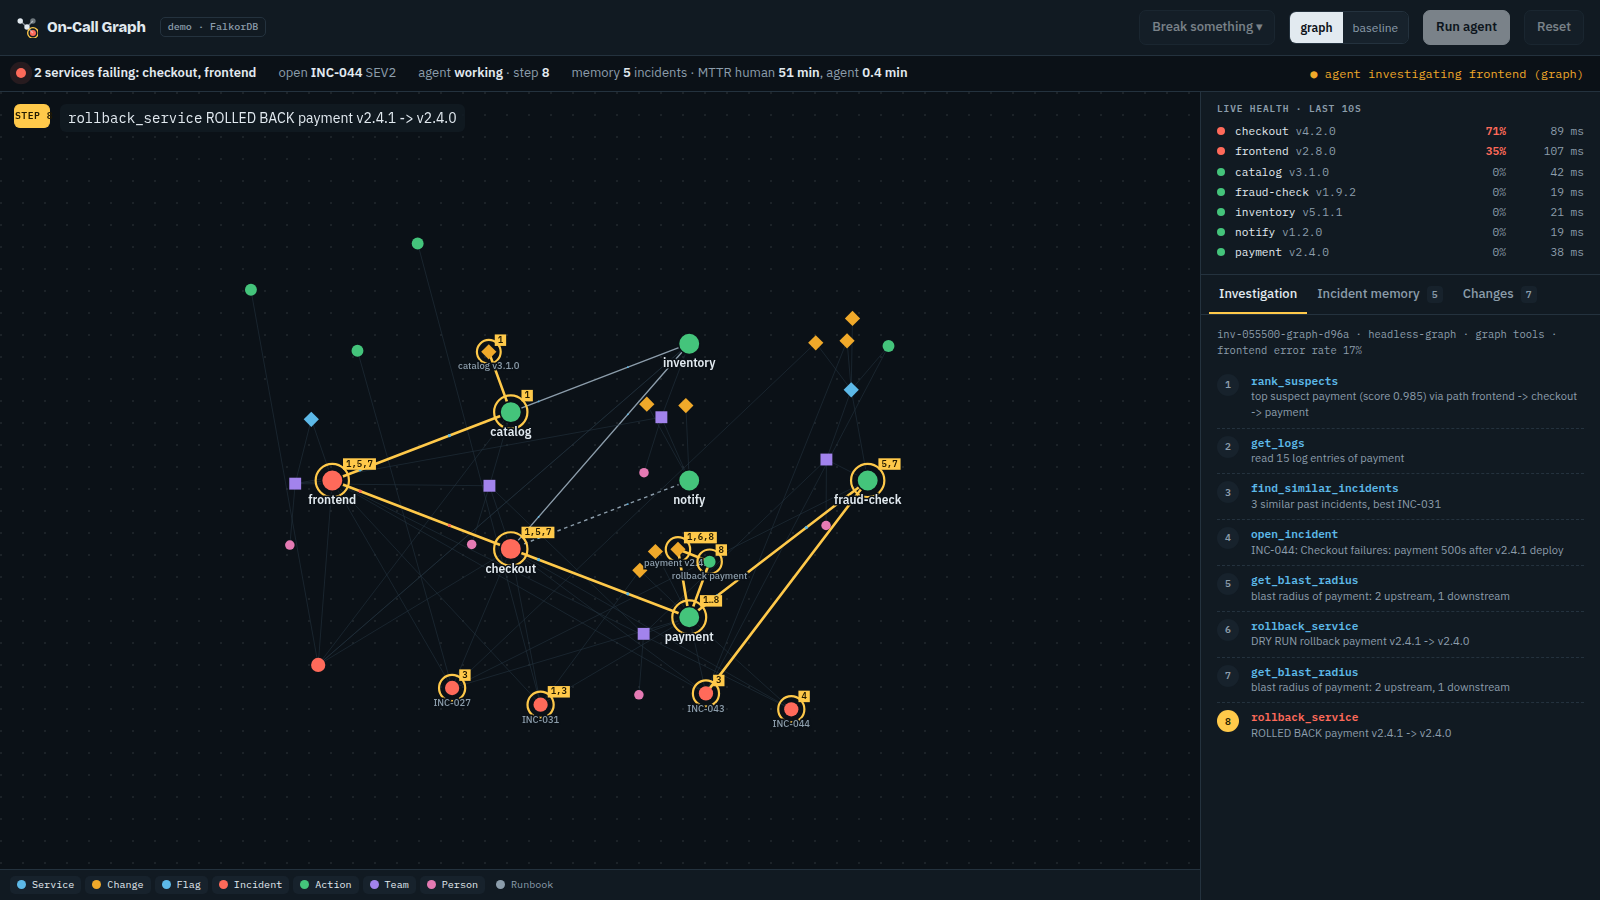
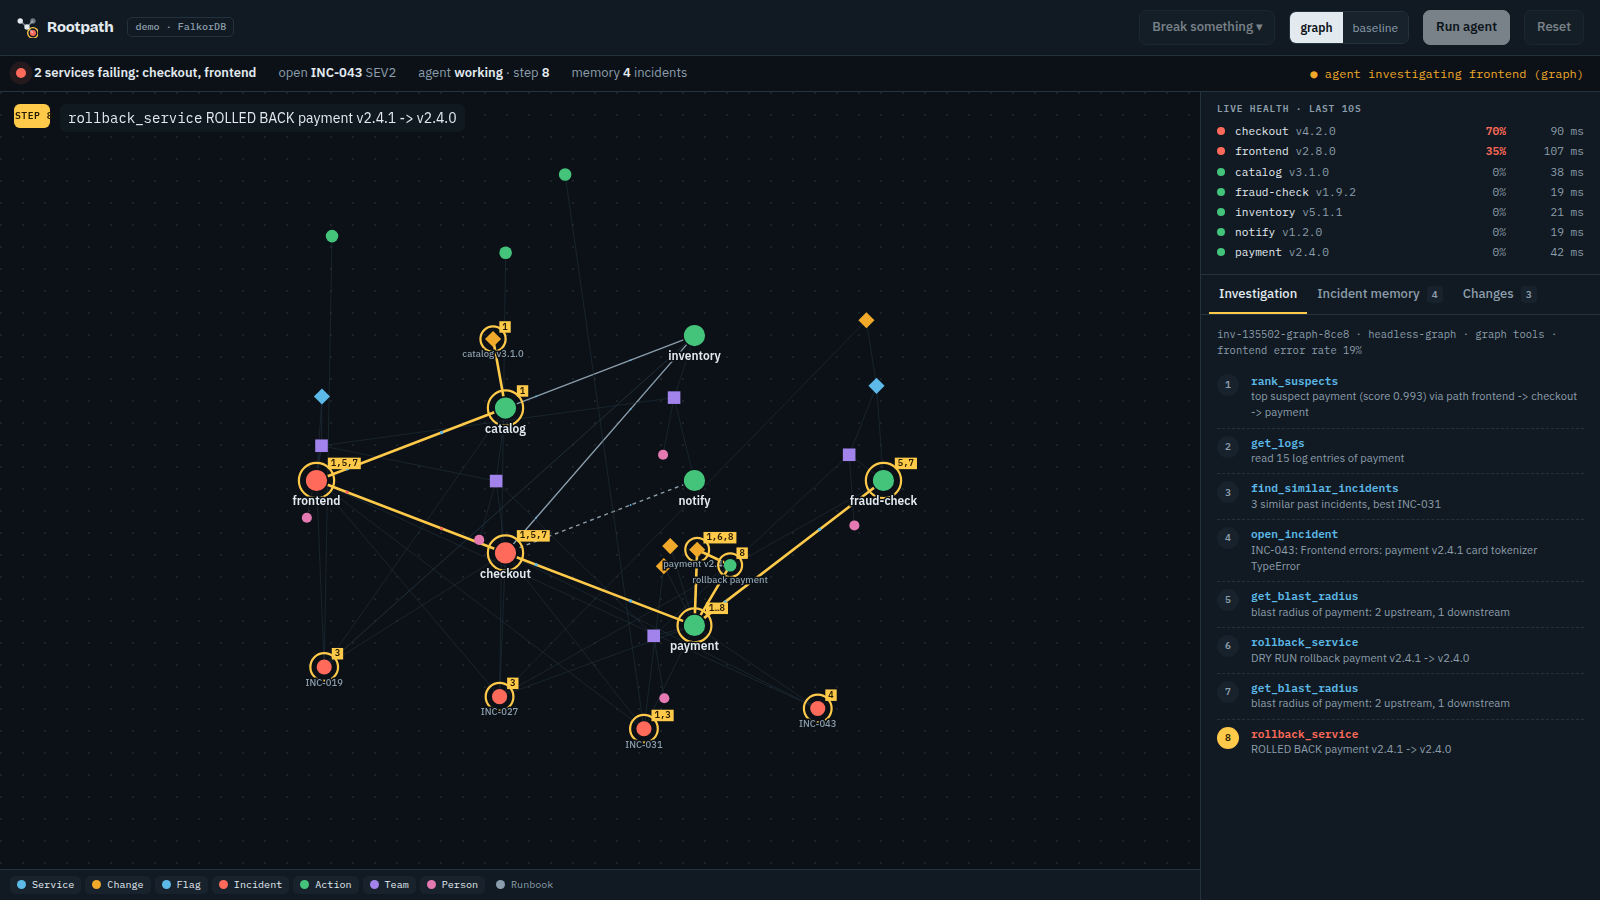
Rename the project to Rootpath

diff --git a/site/src/index.html b/site/src/index.html
@@ -3,7 +3,7 @@
 <head>
 <meta charset="utf-8">
 <meta name="viewport" content="width=device-width, initial-scale=1, viewport-fit=cover">
-<title>On-Call Graph</title>
+<title>Rootpath</title>
 <meta name="claude:viewport-fit-sides" content="cover">
 <meta name="description" content="An incident agent that reasons over a FalkorDB graph of services, changes, owners and past incidents. It finds where a failure starts, fixes it, verifies the fix and remembers.">
 <link rel="preconnect" href="https://fonts.googleapis.com">
@@ -244,14 +244,14 @@ footer { border-top: 1px solid var(--line); padding-block: 36px 48px; color: var
 <body>
 <div class="wrap">
   <header class="top">
-    <a class="brand" href="#top" aria-label="On-Call Graph home">
+    <a class="brand" href="#top" aria-label="Rootpath home">
       <svg width="26" height="26" viewBox="0 0 26 26" aria-hidden="true">
         <circle cx="5" cy="6" r="3.2" fill="currentColor"/><circle cx="20" cy="6" r="3.2" fill="currentColor" opacity=".45"/>
         <circle cx="13" cy="13" r="3.2" fill="currentColor"/><circle cx="20" cy="20" r="3.6" fill="var(--bad)"/>
         <path d="M5 6 13 13 20 20M20 6 13 13" stroke="currentColor" stroke-width="1.6" fill="none" opacity=".55"/>
         <circle cx="20" cy="20" r="6.2" fill="none" stroke="var(--path)" stroke-width="1.6"/>
       </svg>
-      On-Call Graph
+      Rootpath
     </a>
     <nav aria-label="Sections">
       <a href="#how">How it works</a>
@@ -272,7 +272,7 @@ footer { border-top: 1px solid var(--line); padding-block: 36px 48px; color: var
           <h1>The alert is never where <span class="hl">the bug is.</span></h1>
         </div>
         <div class="hero-copy">
-          <p>On-Call Graph gives an AI agent a FalkorDB graph of your services, deploys, feature flags, owners and past incidents. It follows the failure to where it starts, fixes it, checks the fix, and remembers what happened.</p>
+          <p>Rootpath gives an AI agent a FalkorDB graph of your services, deploys, feature flags, owners and past incidents. It follows the failure to where it starts, fixes it, checks the fix, and remembers what happened.</p>
           <div class="cta">
             <a class="btn primary" href="#install">Install the plugin</a>
             <a class="btn" href="#how">How it reasons</a>
@@ -460,8 +460,8 @@ footer { border-top: 1px solid var(--line); padding-block: 36px 48px; color: var
 <footer>
   <div class="wrap foot">
     <div>
-      <p><b style="color:var(--ink)">On-Call Graph</b> was built for Graph Hacks: Context for AI Agents (WeMakeDevs × FalkorDB, October 2026). Apache-2.0.</p>
-      <p>Prior art: woodpecker-mcp also keeps a service graph in FalkorDB, with analysis only. AWS DevOps Agent, Datadog Bits AI SRE, Dynatrace and Causely use topology graphs inside their own platforms. On-Call Graph is open, self-hosted, acts and verifies, remembers, and runs inside the agent you already use.</p>
+      <p><b style="color:var(--ink)">Rootpath</b> was built for Graph Hacks: Context for AI Agents (WeMakeDevs × FalkorDB, October 2026). Apache-2.0.</p>
+      <p>Prior art: woodpecker-mcp also keeps a service graph in FalkorDB, with analysis only. AWS DevOps Agent, Datadog Bits AI SRE, Dynatrace and Causely use topology graphs inside their own platforms. Rootpath is open, self-hosted, acts and verifies, remembers, and runs inside the agent you already use.</p>
     </div>
     <div>
       <p>Built with Claude Code as a pair programmer. At runtime the agent is Claude, through Claude Code headless or any MCP host. No model training anywhere.</p>
@@ -815,20 +815,20 @@ benchSection();
 
 // ---------- install ----------
 const repo = CONFIG.repo || '';
-const repoSlug = esc(repo.replace(/^https:\/\/github\.com\//, '').replace(/\.git$/, '') || '<owner>/oncall-graph');
+const repoSlug = esc(repo.replace(/^https:\/\/github\.com\//, '').replace(/\.git$/, '') || 'IWhitebird/rootpath');
 if (repo) { const a = document.getElementById('repo-link'); a.href = repo; a.textContent = 'GitHub'; }
 const HOSTS = [
   { key: 'claude', title: 'Claude Code', sub: 'Plugin: MCP server, /oncall, /blast-radius, /postmortem, safety hook',
-    code: `<span class="c"># inside Claude Code</span>\n/plugin marketplace add ${repoSlug}\n/plugin install oncall-graph@oncall-graph\n\n<span class="c"># then</span>\n/oncall-graph:oncall checkout is throwing 500s`,
+    code: `<span class="c"># inside Claude Code</span>\n/plugin marketplace add ${repoSlug}\n/plugin install rootpath@rootpath\n\n<span class="c"># then</span>\n/rootpath:oncall checkout is throwing 500s`,
     note: 'Read tools are pre-approved. Real actions go through Claude Code\'s permission prompt, and the guard hook refuses any action that was not dry-run first, or anything during a change freeze.' },
   { key: 'codex', title: 'Codex CLI', sub: 'stdio MCP server in config.toml, playbook in AGENTS.md',
-    code: `<span class="c"># ~/.codex/config.toml</span>\n[mcp_servers.oncall]\ncommand = <span class="s">"uv"</span>\nargs = [<span class="s">"run"</span>, <span class="s">"--quiet"</span>, <span class="s">"--directory"</span>, <span class="s">"/abs/path/to/oncall-graph"</span>, <span class="s">"oncall-graph"</span>, <span class="s">"mcp"</span>]\n\n[mcp_servers.oncall.env]\nFALKORDB_URL = <span class="s">"redis://localhost:6380"</span>`,
+    code: `<span class="c"># ~/.codex/config.toml</span>\n[mcp_servers.oncall]\ncommand = <span class="s">"uv"</span>\nargs = [<span class="s">"run"</span>, <span class="s">"--quiet"</span>, <span class="s">"--directory"</span>, <span class="s">"/abs/path/to/rootpath"</span>, <span class="s">"rootpath"</span>, <span class="s">"mcp"</span>]\n\n[mcp_servers.oncall.env]\nFALKORDB_URL = <span class="s">"redis://localhost:6380"</span>`,
     note: 'The same 17 tools. The repository\'s AGENTS.md carries the incident playbook for Codex and other agents that read it.' },
   { key: 'cursor', title: 'Cursor, VS Code, any MCP host', sub: 'one stdio command',
-    code: `{\n  <span class="s">"mcpServers"</span>: {\n    <span class="s">"oncall"</span>: {\n      <span class="s">"command"</span>: <span class="s">"uv"</span>,\n      <span class="s">"args"</span>: [<span class="s">"run"</span>, <span class="s">"--directory"</span>, <span class="s">"/abs/path/to/oncall-graph"</span>, <span class="s">"oncall-graph"</span>, <span class="s">"mcp"</span>]\n    }\n  }\n}`,
+    code: `{\n  <span class="s">"mcpServers"</span>: {\n    <span class="s">"oncall"</span>: {\n      <span class="s">"command"</span>: <span class="s">"uv"</span>,\n      <span class="s">"args"</span>: [<span class="s">"run"</span>, <span class="s">"--directory"</span>, <span class="s">"/abs/path/to/rootpath"</span>, <span class="s">"rootpath"</span>, <span class="s">"mcp"</span>]\n    }\n  }\n}`,
     note: 'Tools carry MCP annotations: read-only tools are marked readOnlyHint, the three remediation tools destructiveHint, so hosts can ask before acting.' },
   { key: 'headless', title: 'Headless responder', sub: 'an alert starts the agent with no human present',
-    code: `git clone ${esc(repo || '<repo-url>')} oncall-graph && cd oncall-graph\nuv sync\nuv run oncall-graph demo up      <span class="c"># FalkorDB, 7 services, traffic, history</span>\nuv run oncall-graph ui           <span class="c"># dashboard on localhost:7100</span>\n\nuv run oncall-graph chaos flag   <span class="c"># break something</span>\nuv run oncall-graph watch        <span class="c"># alert -> claude -p with only the oncall tools</span>`,
+    code: `git clone ${esc(repo || '<repo-url>')} rootpath && cd rootpath\nuv sync\nuv run rootpath demo up      <span class="c"># FalkorDB, 7 services, traffic, history</span>\nuv run rootpath ui           <span class="c"># dashboard on localhost:7100</span>\n\nuv run rootpath chaos flag   <span class="c"># break something</span>\nuv run rootpath watch        <span class="c"># alert -> claude -p with only the oncall tools</span>`,
     note: 'The watcher pages on the most user-facing failing service, launches Claude Code headless with no shell, file or web tools, and stores the run on an Investigation node. --autonomy propose keeps it to dry runs.' },
 ];
 const hostsEl = document.getElementById('hosts');

diff --git a/ui/index.html b/ui/index.html
@@ -3,7 +3,7 @@
 <head>
 <meta charset="utf-8">
 <meta name="viewport" content="width=device-width, initial-scale=1">
-<title>On-Call Graph · Console</title>
+<title>Rootpath · Console</title>
 <link rel="preconnect" href="https://fonts.googleapis.com">
 <link rel="preconnect" href="https://fonts.gstatic.com" crossorigin>
 <link rel="stylesheet" href="https://fonts.googleapis.com/css2?family=Bricolage+Grotesque:opsz,wght@12..96,700;12..96,800&family=IBM+Plex+Mono:wght@400;500;600&family=IBM+Plex+Sans:wght@400;500;600&display=swap">
@@ -145,7 +145,7 @@ aside h4 { margin: 0 0 8px; font: 600 0.68rem/1 var(--mono); letter-spacing: .09
   <header>
     <div class="brand">
       <svg width="22" height="22" viewBox="0 0 26 26" aria-hidden="true"><circle cx="5" cy="6" r="3.2" fill="currentColor"/><circle cx="20" cy="6" r="3.2" fill="currentColor" opacity=".45"/><circle cx="13" cy="13" r="3.2" fill="currentColor"/><circle cx="20" cy="20" r="3.6" fill="var(--bad)"/><path d="M5 6 13 13 20 20M20 6 13 13" stroke="currentColor" stroke-width="1.6" fill="none" opacity=".55"/><circle cx="20" cy="20" r="6.2" fill="none" stroke="var(--path)" stroke-width="1.6"/></svg>
-      On-Call Graph
+      Rootpath
     </div>
     <span class="env" id="env">demo · FalkorDB</span>
     <div class="spacer"></div>

diff --git a/rootpath/cli.py b/rootpath/cli.py
@@ -1,4 +1,4 @@
-"""oncall-graph command line: run the demo stack, inject failures, serve MCP / UI, run the watcher."""
+"""rootpath command line: run the demo stack, inject failures, serve MCP / UI, run the watcher."""
 import argparse
 import json
 import subprocess
@@ -22,7 +22,7 @@ def demo_up(args) -> None:
     print("waiting for traffic ...")
     time.sleep(6)
     ingest.sync_health()
-    print("demo stack up. UI: `oncall-graph ui` -> http://localhost:7100   FalkorDB browser: http://localhost:3005")
+    print("demo stack up. UI: `rootpath ui` -> http://localhost:7100   FalkorDB browser: http://localhost:3005")
 
 
 def demo_down(args) -> None:
@@ -144,7 +144,7 @@ def mcp(args) -> None:
 
 def ui(args) -> None:
     import uvicorn
-    uvicorn.run("oncall_graph.web:app", host=args.host, port=args.port, log_level="warning")
+    uvicorn.run("rootpath.web:app", host=args.host, port=args.port, log_level="warning")
 
 
 def watch(args) -> None:
@@ -158,7 +158,7 @@ def bench(args) -> None:
 
 
 def call(args) -> None:
-    """Call a tool directly, e.g. `oncall-graph call rank_suspects symptom_service=frontend`."""
+    """Call a tool directly, e.g. `rootpath call rank_suspects symptom_service=frontend`."""
     import os
     os.environ.setdefault("ONCALL_INVESTIGATION_ID", "cli-debug")
     os.environ.setdefault("ONCALL_AGENT", "cli")
@@ -186,7 +186,7 @@ def _wait_for_db() -> None:
 
 
 def main() -> None:
-    p = argparse.ArgumentParser(prog="oncall-graph")
+    p = argparse.ArgumentParser(prog="rootpath")
     sub = p.add_subparsers(dest="cmd", required=True)
     d = sub.add_parser("demo", help="manage the demo stack").add_subparsers(dest="demo_cmd", required=True)
     d.add_parser("up").set_defaults(fn=demo_up)
@@ -222,7 +222,7 @@ def main() -> None:
     rec.add_argument("scenario", choices=list(SCENARIOS))
     rec.add_argument("--out", required=True)
     rec.add_argument("--mode", choices=["graph", "baseline"], default="graph")
-    rec.set_defaults(fn=lambda a: __import__("oncall_graph.record", fromlist=["record"]).record(a.scenario, a.out, a.mode))
+    rec.set_defaults(fn=lambda a: __import__("rootpath.record", fromlist=["record"]).record(a.scenario, a.out, a.mode))
     t = sub.add_parser("call", help="call a tool directly (debugging)")
     t.add_argument("tool")
     t.add_argument("kwargs", nargs="*")

diff --git a/tests/test_unit.py b/tests/test_unit.py
@@ -4,7 +4,7 @@ import json
 
 import pytest
 
-from oncall_graph import config, guard, infra, store, tools
+from rootpath import config, guard, infra, store, tools
 
 
 def test_safe_read_appends_limit(monkeypatch):
@@ -29,7 +29,7 @@ def test_classify(stats, expected):
 
 
 def _event(tool, **args):
-    return {"tool_name": f"mcp__plugin_oncall-graph_oncall__{tool}", "tool_input": args}
+    return {"tool_name": f"mcp__plugin_rootpath_oncall__{tool}", "tool_input": args}
 
 
 def test_guard_allows_dry_runs_without_touching_graph(monkeypatch):
@@ -117,7 +117,7 @@ def test_health_view_hides_tracing_fields_in_basic_telemetry(monkeypatch):
 
 
 def test_mcp_tool_sets():
-    from oncall_graph.mcp_server import build
+    from rootpath.mcp_server import build
 
     def names(mode):
         return {t.name for t in asyncio.run(build(mode).list_tools())}
@@ -129,14 +129,14 @@ def test_mcp_tool_sets():
 
 
 def test_tool_annotations_mark_actions_destructive():
-    from oncall_graph.mcp_server import build
+    from rootpath.mcp_server import build
     tools_by_name = {t.name: t for t in asyncio.run(build("graph").list_tools())}
     assert tools_by_name["rollback_service"].annotations.destructiveHint is True
     assert tools_by_name["rank_suspects"].annotations.readOnlyHint is True
 
 
 def test_propose_mode_disables_actions_in_the_server(tmp_path, monkeypatch):
-    from oncall_graph import responder
+    from rootpath import responder
     monkeypatch.setattr(config, "ROOT", tmp_path)
     auto = json.loads(open(responder.mcp_config("graph", "inv-test", "auto")).read())
     propose = json.loads(open(responder.mcp_config("graph", "inv-test", "propose")).read())

diff --git a/tests/conftest.py b/tests/conftest.py
@@ -5,7 +5,7 @@ import pytest
 
 def _stack_up() -> bool:
     try:
-        from oncall_graph import infra, store
+        from rootpath import infra, store
         store.query("RETURN 1")
         return infra.stats("frontend")["status"] != "down"
     except Exception:
@@ -14,17 +14,17 @@ def _stack_up() -> bool:
 
 @pytest.fixture(scope="session")
 def stack():
-    """The live demo stack (`oncall-graph demo up`). Integration tests skip without it."""
+    """The live demo stack (`rootpath demo up`). Integration tests skip without it."""
     if not _stack_up():
-        pytest.skip("demo stack not running (run `uv run oncall-graph demo up`)")
+        pytest.skip("demo stack not running (run `uv run rootpath demo up`)")
     return True
 
 
 @pytest.fixture
 def fresh(stack):
     """Hard reset before the test, so every scenario starts from the same healthy baseline."""
-    from oncall_graph.cli import reset
-    from oncall_graph.responder import detect
+    from rootpath.cli import reset
+    from rootpath.responder import detect
     reset()
     for _ in range(20):
         if detect() is None:
@@ -36,7 +36,7 @@ def fresh(stack):
 
 def wait_for_alert(timeout: float = 60):
     """Same rule as the watcher: two consecutive detections 5s apart; returns the second."""
-    from oncall_graph.responder import detect
+    from rootpath.responder import detect
     end, strikes = time.time() + timeout, 0
     while time.time() < end:
         hit = detect()

diff --git a/rootpath/guard.py b/rootpath/guard.py
@@ -25,7 +25,7 @@ def decide(event: dict) -> tuple[str, str] | None:
         "MATCH (a:Action {kind: $kind, target: $target, dry_run: true}) WHERE a.at >= $since RETURN count(a) AS n",
         {"kind": kind, "target": args.get(key), "since": time.time() - 900})
     if not rows or rows[0]["n"] == 0:
-        return "deny", (f"oncall-graph guard: run {tool} with dry_run=true on '{args.get(key)}' first and review "
+        return "deny", (f"rootpath guard: run {tool} with dry_run=true on '{args.get(key)}' first and review "
                         "the plan; real actions need a recorded dry run from the last 15 minutes.")
     return None
 
@@ -35,7 +35,7 @@ def main() -> None:
     try:
         verdict = decide(event)
     except Exception as e:  # graph unreachable: fail closed for real actions
-        verdict = ("deny", f"oncall-graph guard could not reach FalkorDB ({type(e).__name__}); blocking real action.")
+        verdict = ("deny", f"rootpath guard could not reach FalkorDB ({type(e).__name__}); blocking real action.")
     if verdict:
         print(json.dumps({"hookSpecificOutput": {"hookEventName": "PreToolUse",
                                                  "permissionDecision": verdict[0],

diff --git a/tests/test_integration.py b/tests/test_integration.py
@@ -2,8 +2,8 @@
 take the fix through the real action tools, verify recovery and incident memory."""
 import pytest
 
-from oncall_graph import config, infra, store, tools
-from oncall_graph.cli import inject as inject_scenario
+from rootpath import config, infra, store, tools
+from rootpath.cli import inject as inject_scenario
 
 from .conftest import wait_for_alert
 
@@ -122,7 +122,7 @@ def test_blast_radius_and_paths(stack):
 
 def test_web_api(stack):
     from fastapi.testclient import TestClient
-    from oncall_graph.web import app
+    from rootpath.web import app
     c = TestClient(app)
     assert c.get("/").status_code == 200
     g = c.get("/api/graph").json()

diff --git a/rootpath/responder.py b/rootpath/responder.py
@@ -27,7 +27,7 @@ def mcp_config(mode: str, investigation_id: str, autonomy: str = "auto") -> str:
         env["ONCALL_ALLOW_ACTIONS"] = "0"  # enforced by the server, not just asked of the model
     path.write_text(json.dumps({"mcpServers": {"oncall": {
         "command": shutil.which("uv") or "uv",
-        "args": ["run", "--quiet", "--directory", str(config.ROOT), "oncall-graph", "mcp", "--mode", mode],
+        "args": ["run", "--quiet", "--directory", str(config.ROOT), "rootpath", "mcp", "--mode", mode],
         "env": env}}}, indent=2))
     return str(path)
 

diff --git a/rootpath/tools.py b/rootpath/tools.py
@@ -582,7 +582,7 @@ def notify_owner(service: str, message: str, incident_id: str | None = None) -> 
     owner = get_owner(service)
     if "error" in owner:
         return owner
-    text = f"[{incident_id or 'oncall-graph'}] @{owner['on_call']} ({owner['channel']}): {message}"
+    text = f"[{incident_id or 'rootpath'}] @{owner['on_call']} ({owner['channel']}): {message}"
     delivered = "recorded in graph (no webhook configured)"
     if config.NOTIFY_WEBHOOK:
         try:

diff --git a/site/build.py b/site/build.py
@@ -1,7 +1,7 @@
 """Build the project website: inline the recorded incident replays and the benchmark results
 into one self-contained HTML file (site/index.html, ready for GitHub Pages).
 
-    uv run python site/build.py [--repo https://github.com/<owner>/oncall-graph] [--artifact out.html]
+    uv run python site/build.py [--repo https://github.com/IWhitebird/rootpath] [--artifact out.html]
 """
 import argparse
 import json

diff --git a/demo/service/app.py b/demo/service/app.py
@@ -1,4 +1,4 @@
-"""A tiny configurable microservice for the On-Call Graph demo stack.
+"""A tiny configurable microservice for the Rootpath demo stack.
 
 Every service in the demo runs this same file; its behaviour comes from env vars:
   SERVICE_NAME     name of the service

diff --git a/rootpath/web.py b/rootpath/web.py
@@ -8,7 +8,7 @@ from fastapi.responses import FileResponse
 
 from . import config, infra, ingest, store
 
-app = FastAPI(title="On-Call Graph")
+app = FastAPI(title="Rootpath")
 UI = Path(__file__).resolve().parent.parent / "ui"
 _busy = {"task": None, "since": 0.0}
 
